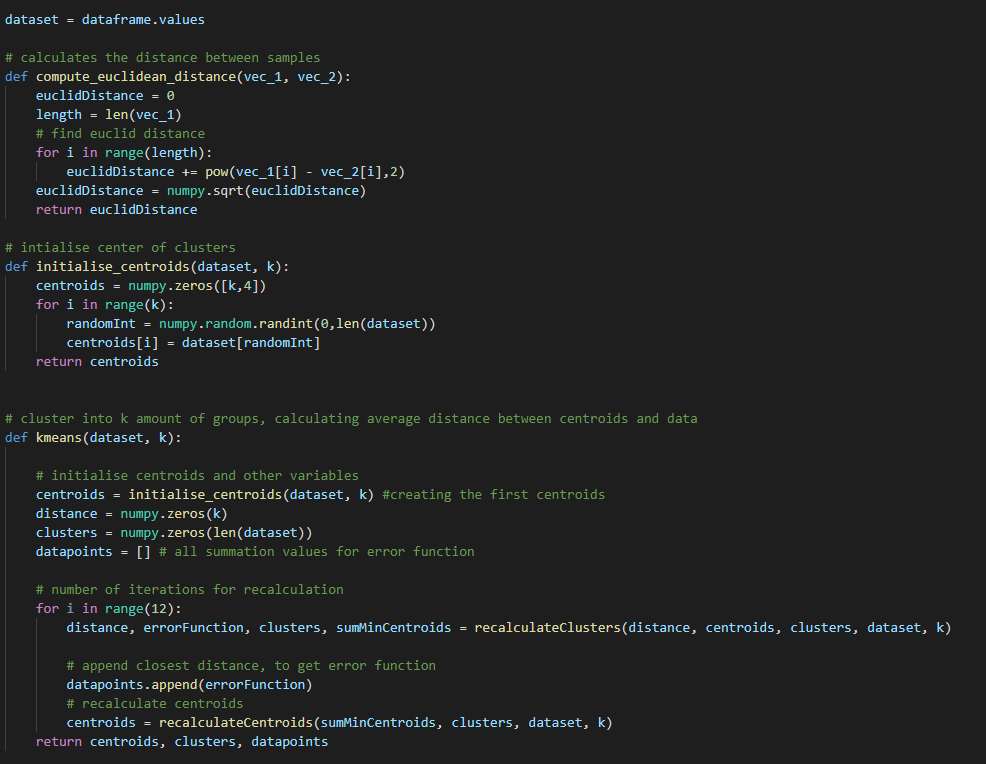
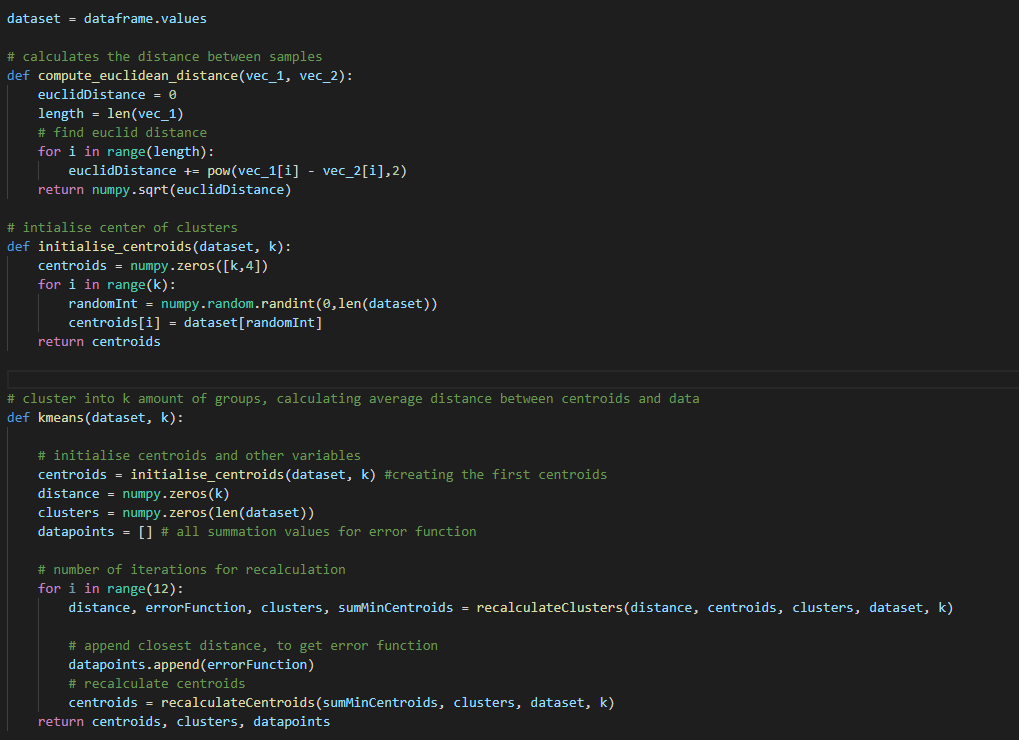
Updating code and adding accuracy epoch graph

diff --git a/machineLearning.py b/machineLearning.py
@@ -171,8 +171,7 @@ def compute_euclidean_distance(vec_1, vec_2):
     # find euclid distance
     for i in range(length):
         euclidDistance += pow(vec_1[i] - vec_2[i],2)
-    euclidDistance = numpy.sqrt(euclidDistance)
-    return euclidDistance
+    return numpy.sqrt(euclidDistance)
 
 # intialise center of clusters
 def initialise_centroids(dataset, k):
@@ -368,16 +367,18 @@ def runForestClassifier(leafSamples):
 
     print(forestClassifier.score(xTestData, yTestData))
 
-
-def plotAccuracyFunction(datapoints):
-    plt.plot(datapoints, 'o-', label='Accuracy MLP')
+# could probably have epochs in a list and looped
+def plotAccuracyFunction(listOfEpochs,datapoints):
+    plt.plot(listOfEpochs, datapoints, 'o-', label='Accuracy MLP')
     plt.xlabel("Epochs")
     plt.ylabel("Accuracy")
     plt.legend()
     plt.show()
 
 accuracyPlot = []
+epochs = [100,200,300,400,500,600,700,800,900,1000]
 
+print("MLP Accuracy")
 accuracyPlot.append(runMLPClassifier(100))
 accuracyPlot.append(runMLPClassifier(200))
 accuracyPlot.append(runMLPClassifier(300))
@@ -389,10 +390,11 @@ accuracyPlot.append(runMLPClassifier(800))
 accuracyPlot.append(runMLPClassifier(900))
 accuracyPlot.append(runMLPClassifier(1000))
 
+print("Random Forest Accuracy")
 runForestClassifier(5)
 runForestClassifier(10)
 
-plotAccuracyFunction(accuracyPlot)
+plotAccuracyFunction(epochs, accuracyPlot)
 
 chosenEpoch = 500
 
